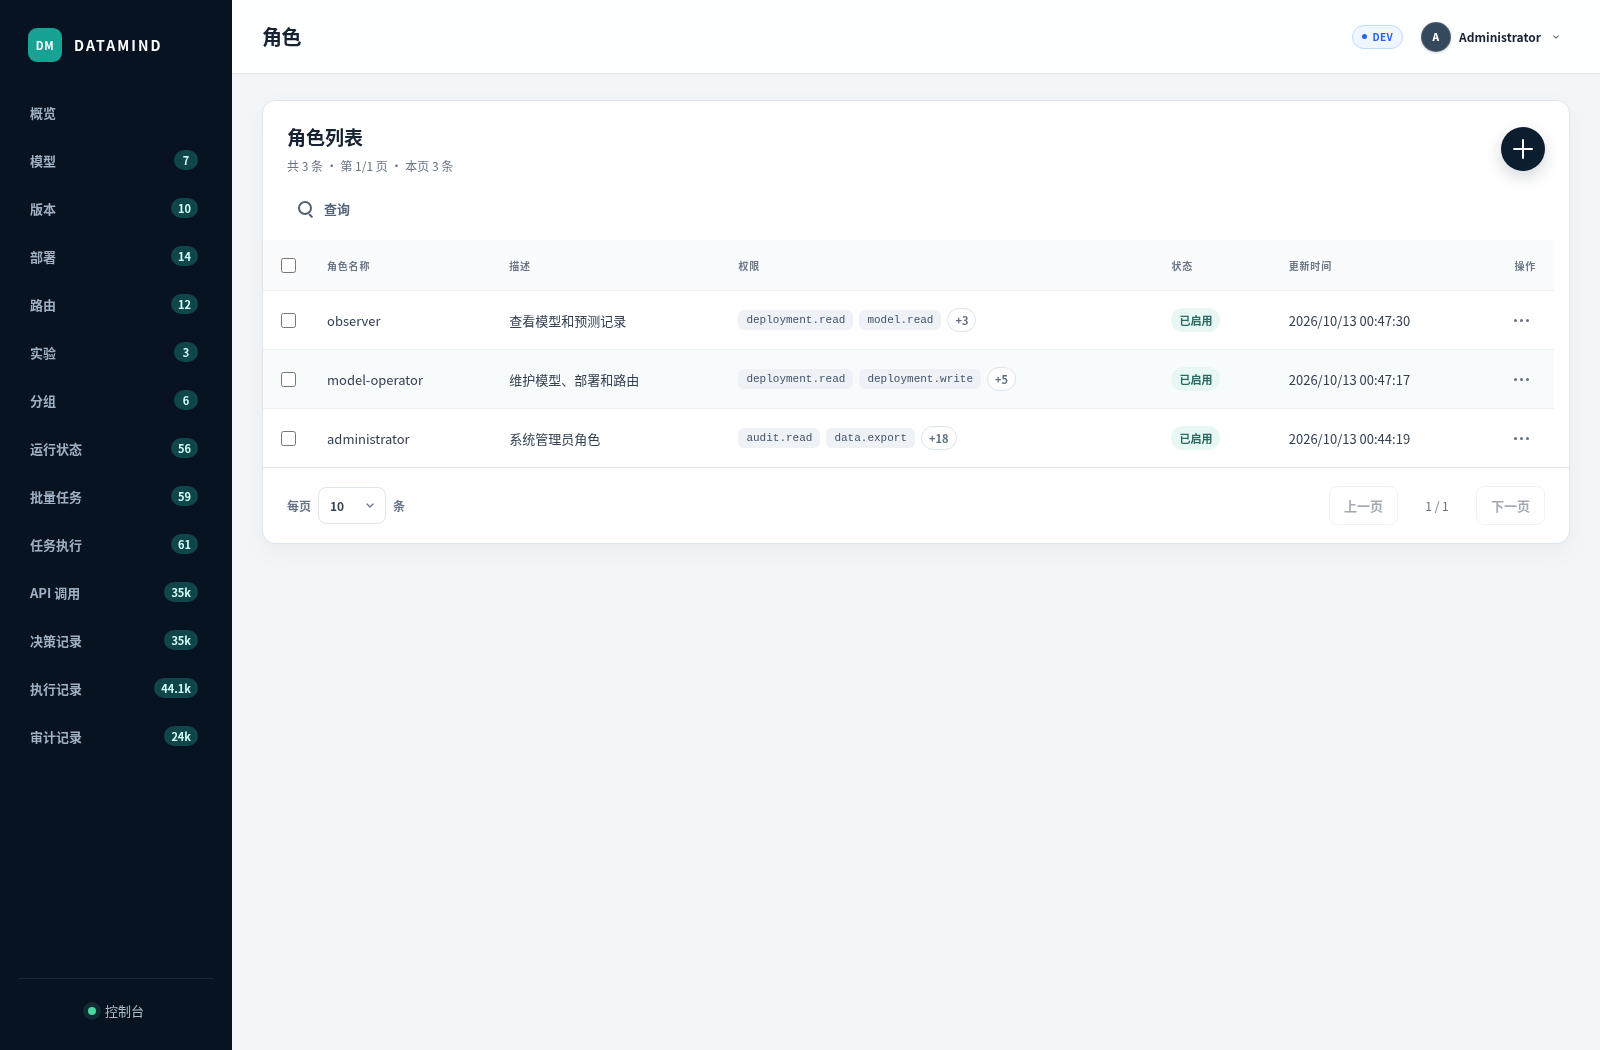
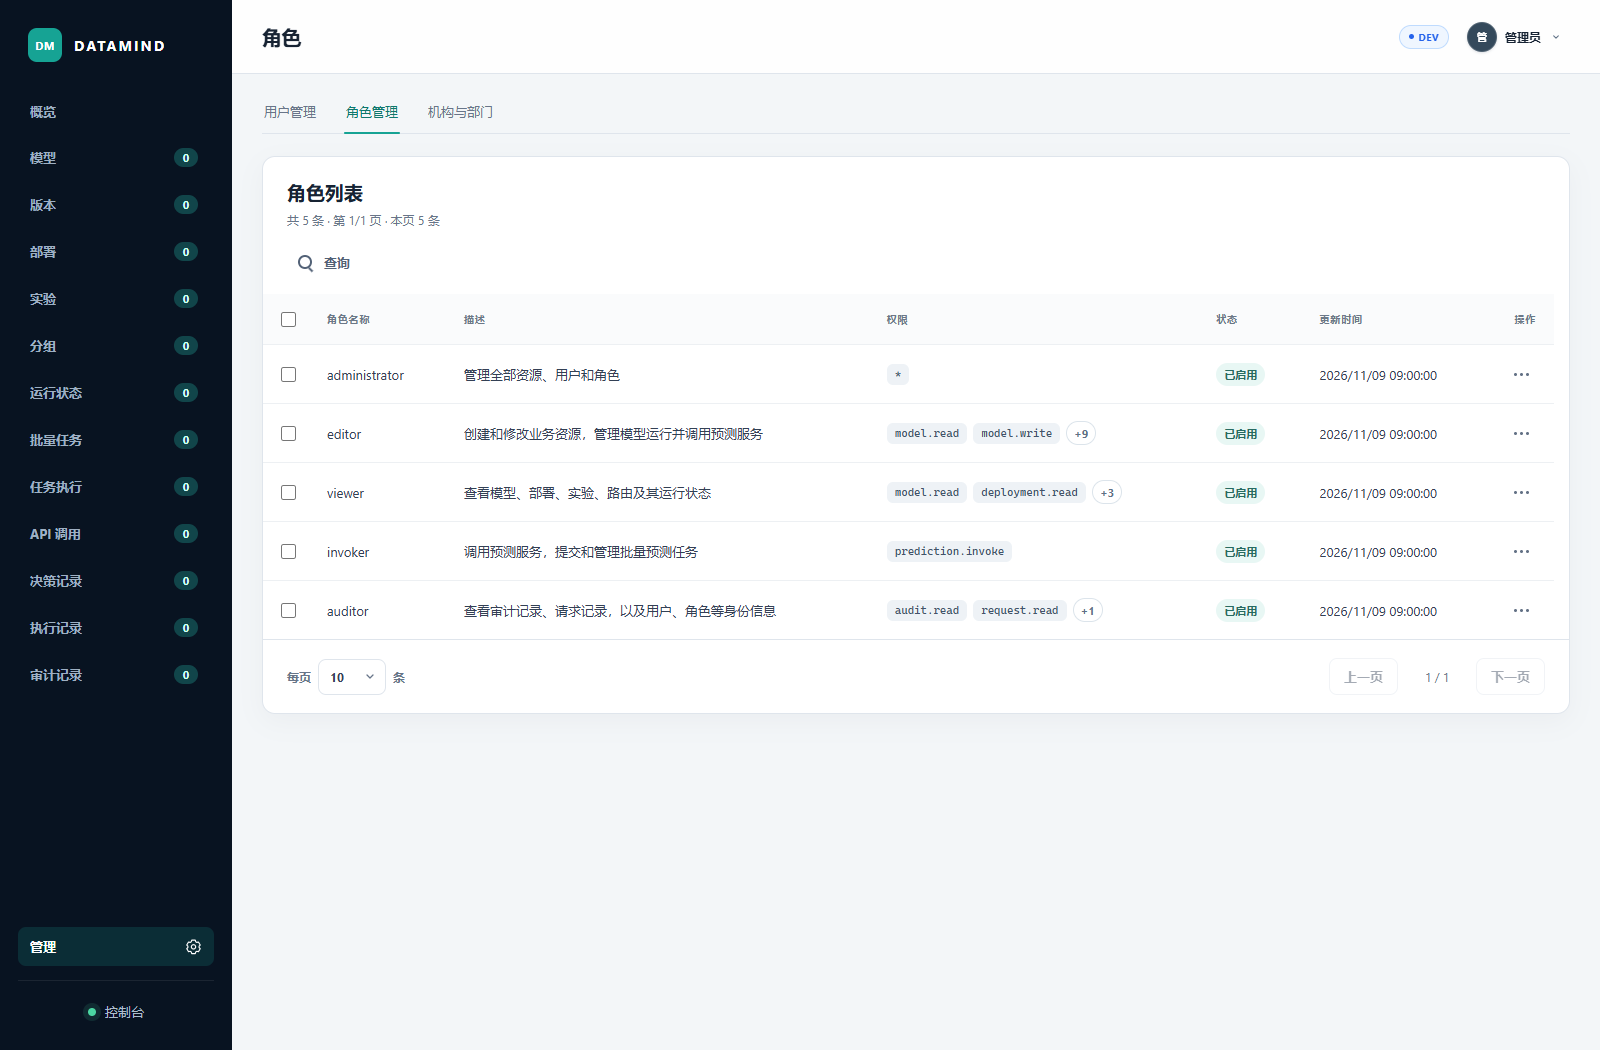
更新管理控制台文档

diff --git a/docs/guides/console.md b/docs/guides/console.md
@@ -1,6 +1,6 @@
 # 管理控制台
 
-管理控制台用于管理模型、部署、路由和实验，并查看调用、执行及审计记录。本页介绍如何通过控制台管理模型服务，完成模型注册、部署发布、流量调整和实验分析，并追踪请求与任务的执行情况。
+管理控制台用于管理模型、部署、路由和实验，并查看调用、执行及审计记录。本页介绍如何通过控制台完成模型注册、部署发布、流量分配和实验分析，并追踪请求与任务的执行情况。
 
 ## 登录与概览
 
